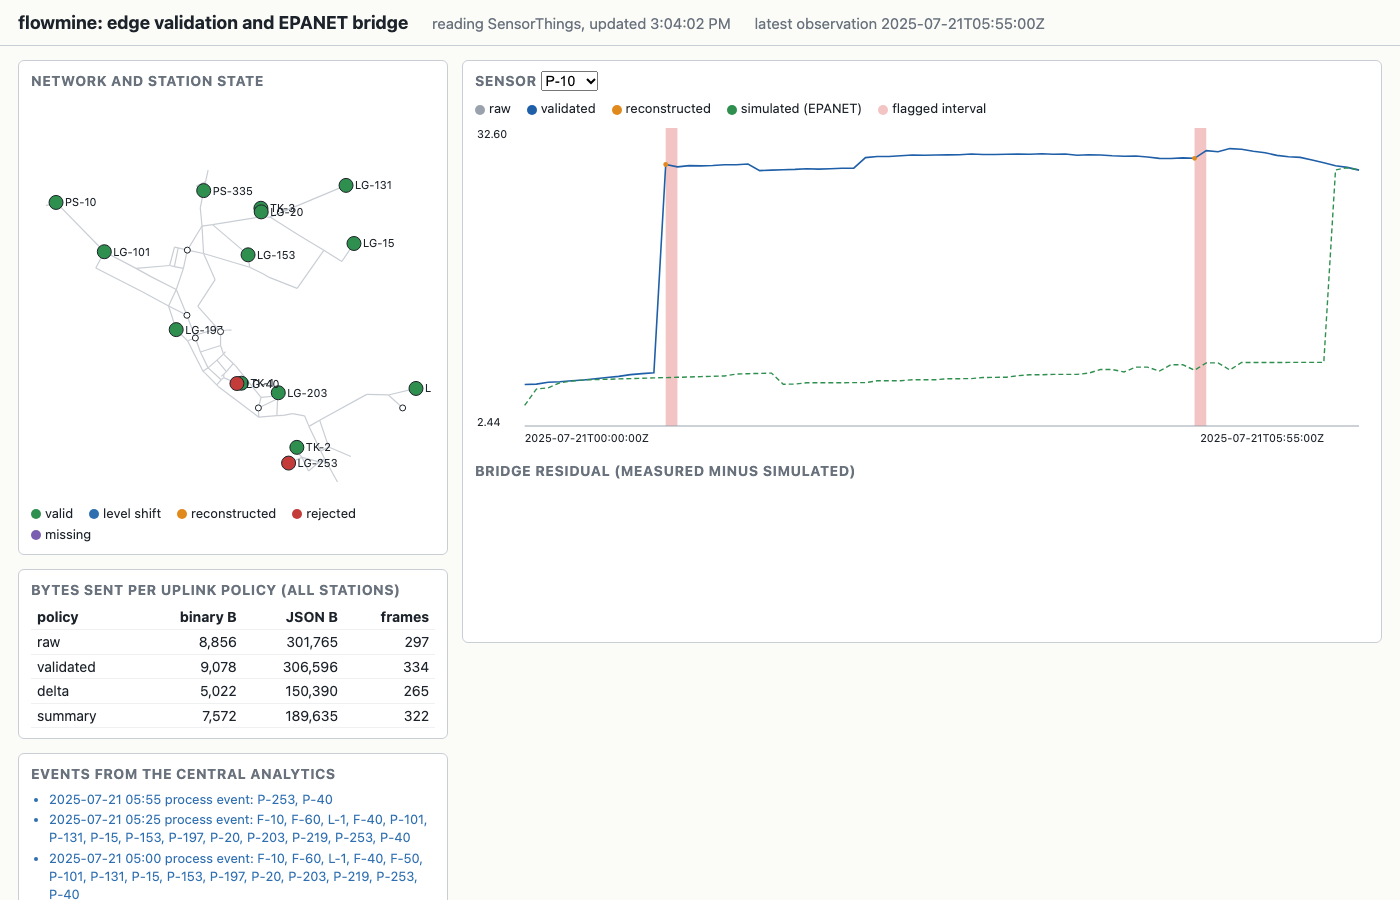
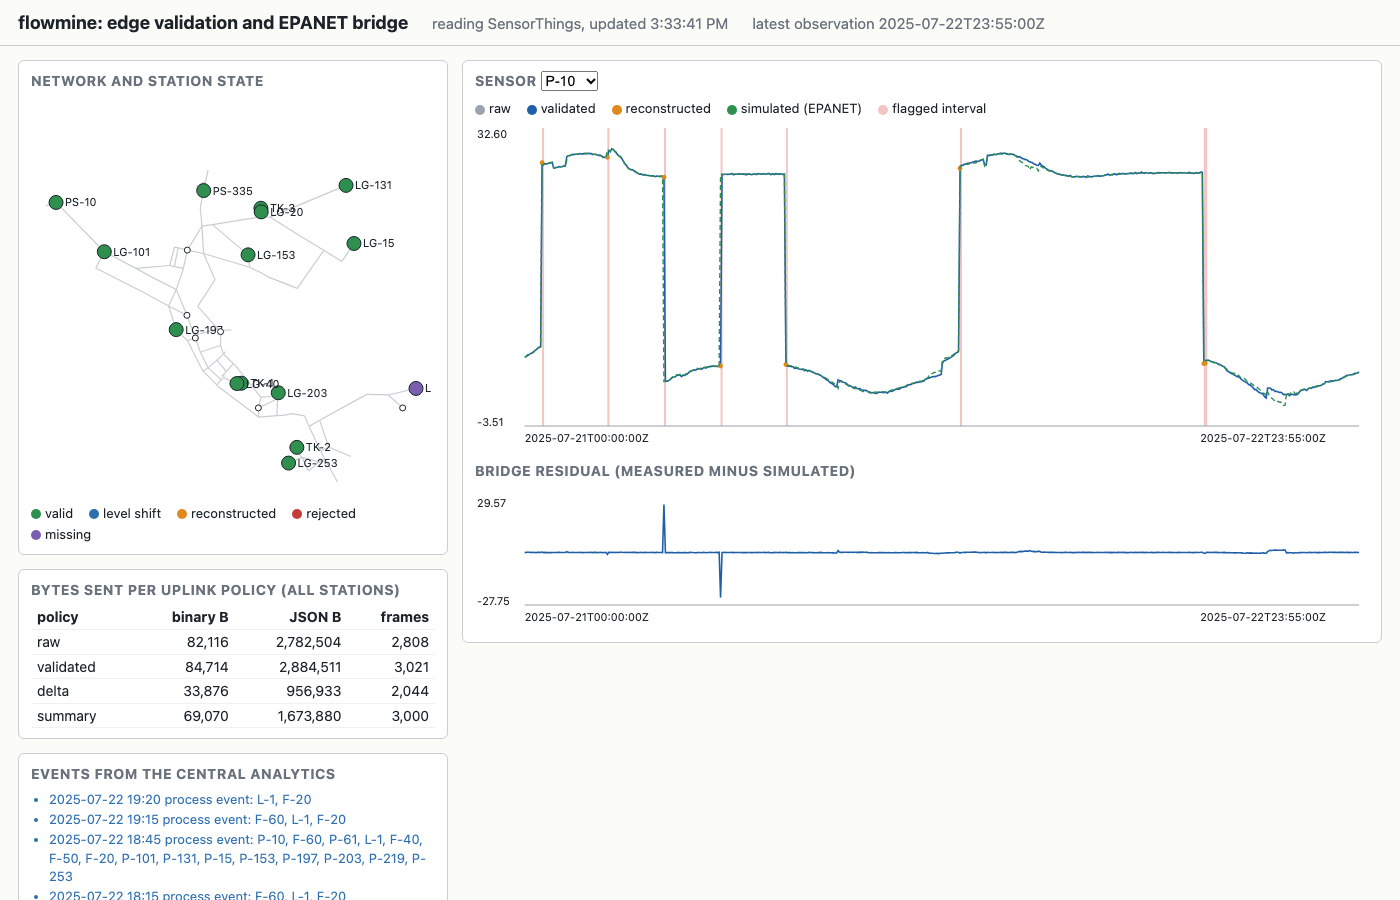
Live twin waits per stream; provisioning updates Thing properties; day-ahead origins within data
- LiveTwin.ready() requires every measured stream due at t to have
  reported t (or later), with a 30 s wall-clock fallback.
- Provisioning PATCHes properties of a Thing found by name.
- Day-ahead forecast origins are limited to those with a full day ahead.
- Report tables take group keys from the data, not groupby().groups
  (pandas 4 deprecation).
- New dashboard screenshot.

diff --git a/src/flowmine/twin/service.py b/src/flowmine/twin/service.py
@@ -3,9 +3,8 @@
 * replay: read stored observations for a window, run the bridge as fast as it goes,
   publish the simulated, residual and virtual-sensor streams;
 * live: subscribe to the measured Datastreams over MQTT and advance one period each
-  time every boundary stream due at that period has reported (or once data
-  ``wait_steps`` periods later have arrived; the step then uses what is there). The
-  other measured streams give the residuals.
+  time every boundary stream due at that period has reported for it or moved past it
+  (see ``LiveTwin.ready``). The other measured streams give the residuals.
 """
 
 from __future__ import annotations
@@ -109,20 +108,37 @@ class LiveTwin:
             cfg.network.inp, self.step_s, duration_s, sorted(self.b.pumps), nodes, links, cfg
         )
         self.t = t0
-        self.rows: list[dict[str, Any]] = []
         self.seen: list[dict[str, Any]] = []
+        self.latest: dict[str, int] = {}
+        self.waiting_since: float | None = None
 
     def add(self, row: dict[str, Any]) -> None:
         self.seen.append(row)
+        s = str(row["stream"])
+        self.latest[s] = max(self.latest.get(s, -1), int(row["time_s"]))
 
-    def ready(self, wait_steps: int) -> bool:
-        """All streams due at the current period have reported, or ``wait_steps`` passed."""
-        if not self.seen:
-            return False
-        latest = max(r["time_s"] for r in self.seen)
+    def ready(self, timeout_s: float) -> bool:
+        """True when every measured stream due at the current period (boundary inputs and
+        the streams that get residuals) has either reported for it or already reported a
+        later time (its sample is missing). MQTT delivers the observations of one batch
+        in no fixed order and stations run at different speeds, so this is decided per
+        stream. If a due stream
+        has not moved for ``timeout_s`` seconds of wall-clock time while data for later
+        periods exist, the step goes ahead without it."""
+        due = [s for s in self.period if self.t % self.period[s] == 0]
         have = {r["stream"] for r in self.seen if r["time_s"] == self.t}
-        due = {s for s in self.streams if self.t % self.period[s] == 0}
-        return due <= have or latest >= self.t + wait_steps * self.step_s
+        if all(s in have or self.latest.get(s, -1) > self.t for s in due):
+            self.waiting_since = None
+            return True
+        if not self.latest or max(self.latest.values()) <= self.t:
+            return False
+        now = time.monotonic()
+        if self.waiting_since is None:
+            self.waiting_since = now
+        if now - self.waiting_since > timeout_s:
+            self.waiting_since = None
+            return True
+        return False
 
     def step(self) -> tuple[int, dict[str, float], dict[str, float]]:
         """Advance one period; returns (t, simulated row, measured values at t)."""
@@ -145,7 +161,7 @@ def live(
     port: int,
     t0: int,
     duration_s: int,
-    wait_steps: int = 12,
+    timeout_s: float = 30.0,
     idle_timeout_s: float = 60.0,
 ) -> int:
     """Run until no observation arrives for ``idle_timeout_s`` seconds."""
@@ -167,7 +183,7 @@ def live(
                 last_msg = time.monotonic()
             except queue.Empty:
                 continue
-            while twin.ready(wait_steps):
+            while twin.ready(timeout_s):
                 t, row, measured = twin.step()
                 sim = pd.DataFrame([row], index=[t])
                 res = pd.DataFrame(

diff --git a/src/flowmine/sta/provision.py b/src/flowmine/sta/provision.py
@@ -1,7 +1,10 @@
 """Idempotent provisioning of every SensorThings entity the system uses.
 
 Running ``provision`` twice creates nothing the second time: each entity is looked
-up by name first. Stream names (Datastream names) are the keys the rest of the code
+up by name first. A Thing found by name gets its properties updated, so the element
+mapping always matches the current configuration.
+
+Stream names (Datastream names) are the keys the rest of the code
 uses:
 
     P-15 / F-60 / L-1 / C-15   measured, one per sensor, on the station's Thing
@@ -106,6 +109,8 @@ def provision(
     def thing(name: str, body: dict[str, object], node: str) -> int:
         found = client.find_by_name("Things", name)
         if found is not None:
+            if found.get("properties") != body.get("properties"):
+                client.patch(f"Things({found['@iot.id']})", {"properties": body["properties"]})
             return int(found["@iot.id"])
         body = dict(body)
         body["Locations"] = [mapping.location_body(f"node {node}", *xy[node])]

diff --git a/src/flowmine/experiments/training.py b/src/flowmine/experiments/training.py
@@ -69,8 +69,11 @@ def e5(ctx: SeedContext) -> pd.DataFrame:
             clean = ((lb.fault_type == "") & (lb.event_id < 0)).to_numpy().copy()
             clean[: DAY // period] = False
             one = _one_step(m, obs, truth, clean)
+            per_day = DAY // period
             origins = [
-                DAY // period - 1 + d * (DAY // period) for d in range(ex.day_ahead_origins - 1)
+                per_day - 1 + d * per_day
+                for d in range(ex.day_ahead_origins - 1)
+                if per_day * (d + 2) <= len(obs)
             ]
             obs_filled = pd.Series(obs).interpolate(limit_direction="both").to_numpy()
             day = federated.day_ahead_rmse(m, obs_filled, truth, origins)

diff --git a/src/flowmine/experiments/report.py b/src/flowmine/experiments/report.py
@@ -51,7 +51,7 @@ def table(
     rename: Callable[[str], str] | None = None,
 ) -> str:
     groups = df.groupby(by, sort=False)
-    keys = [k if isinstance(k, tuple) else (k,) for k in groups.groups]
+    keys = [tuple(row) for row in df[by].drop_duplicates().itertuples(index=False)]
     if order is not None:
         keys = [(k,) for k in order if (k,) in keys]
     head = "| " + " | ".join(by + list(cols.values())) + " |"

diff --git a/tests/unit/test_services.py b/tests/unit/test_services.py
@@ -96,7 +96,7 @@ def test_twin_replay_and_live_step_post_simulated_streams(
     for r in rows.to_dict("records"):
         live.add(r)
     steps = []
-    while live.ready(12):
+    while live.ready(30.0):
         steps.append(live.step())
     live.bridge.close()
     assert len(steps) >= 3 and steps[0][0] == t0
